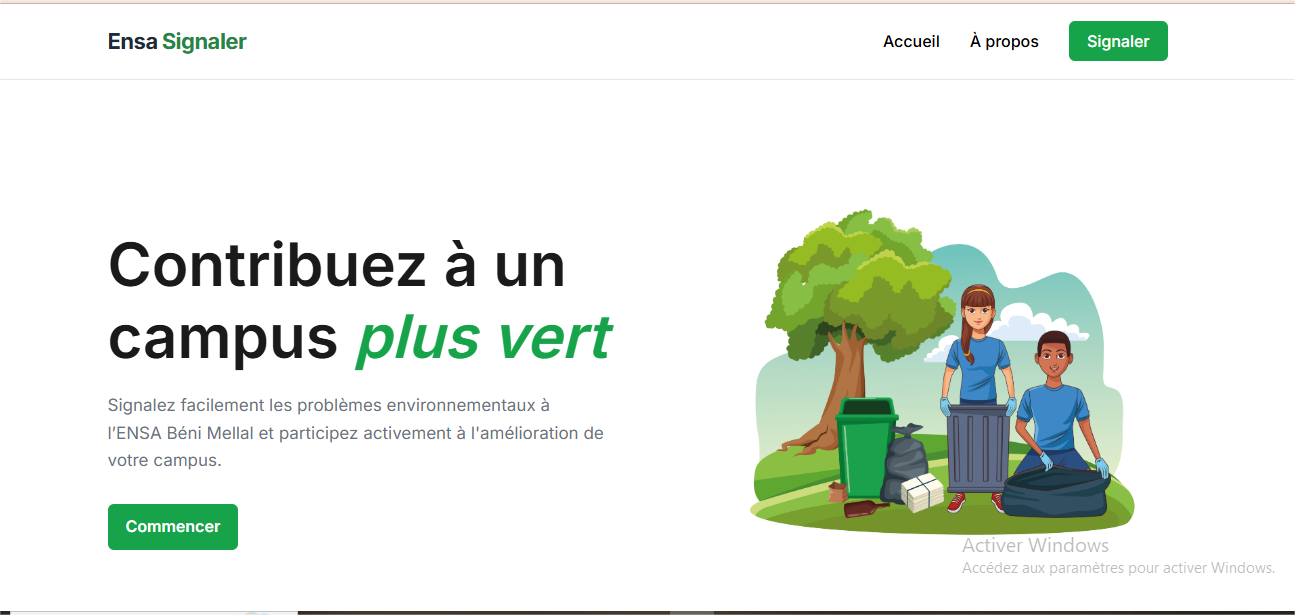
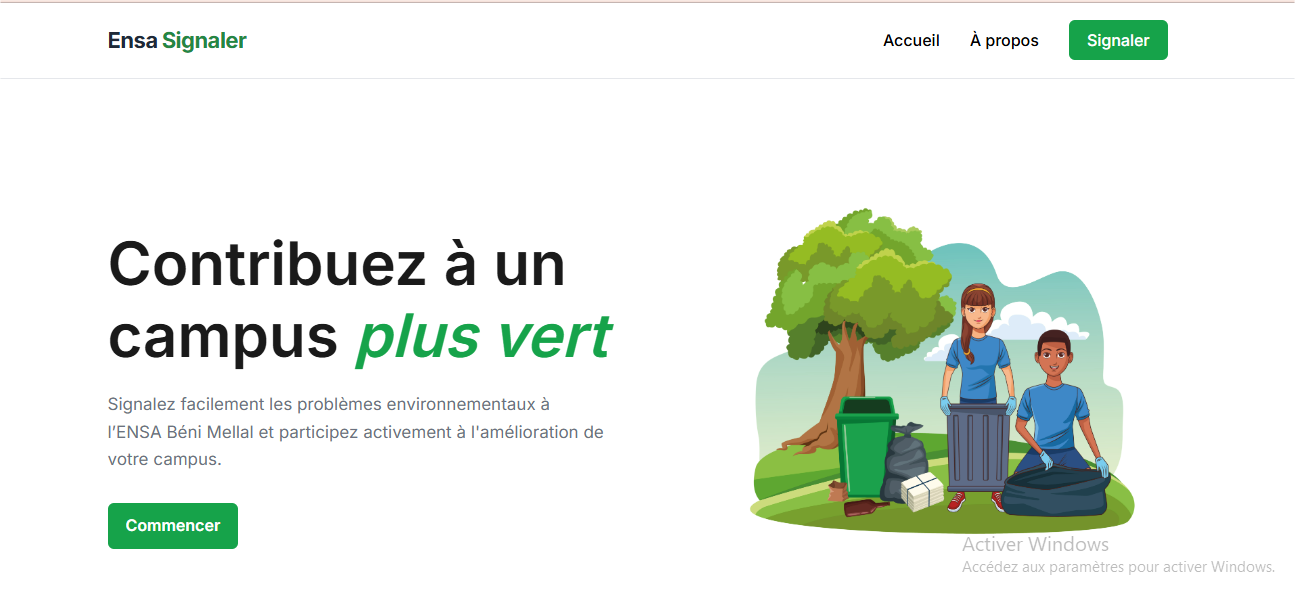
task 3 is done , filtre added

diff --git a/frontend/form.js b/frontend/form.js
@@ -9,6 +9,9 @@ class EnsaSignalerForm {
     init() {
         this.bindEvents();
         this.loadReportsDisplay();
+        this.loadReportsFromAPI();
+        this.bindFilterButtons();
+        
     }
 
     bindEvents() {
@@ -31,6 +34,8 @@ class EnsaSignalerForm {
         if (backBtn) {
             backBtn.addEventListener('click', () => this.navigateBack());
         }
+
+        
     }
 
     navigateBack() {
@@ -111,6 +116,17 @@ class EnsaSignalerForm {
         container.innerHTML = this.reports.map(report => this.createReportCard(report)).join('');
     }
 
+        loadReportsFromAPI() {
+        fetch("http://localhost:3000/signalements")
+            .then(res => res.json())
+            .then(data => {
+            console.log("DATA FROM API:", data);
+            this.reports = data;
+            this.loadReportsDisplay();
+        })
+        .catch(err => console.error(err));
+         }
+
     createReportCard(report) {
         const statusLabels = {
             pending: 'En attente',
@@ -144,8 +160,8 @@ class EnsaSignalerForm {
         return `
             <div class="report-card">
                 <div class="report-header">
-                    <span class="report-type">${typeLabels[report.type] || report.type}</span>
-                    <span class="report-status ${statusClasses[report.status]}">${statusLabels[report.status]}</span>
+                    <span class="report-type">${typeLabels[report.title] || report.title}</span>
+                    <span class="report-status ${statusClasses[report.status]}">${report.status || "nouveau"}</span>
                 </div>
                 <div class="report-location">${report.location}</div>
                 <div class="report-description">${report.description}</div>
@@ -173,9 +189,38 @@ class EnsaSignalerForm {
             notification.classList.remove('show');
         }
     }
+
+    bindFilterButtons() {
+    const buttons = document.querySelectorAll(".filter-btn");
+
+    buttons.forEach(btn => {
+        btn.addEventListener("click", () => {
+
+            // remove active
+            buttons.forEach(b => b.classList.remove("active"));
+
+            // add active
+            btn.classList.add("active");
+
+            const type = btn.dataset.type;
+
+            if (!type) {
+                this.loadReportsDisplay();
+                return;
+            }
+
+            const filtered = this.reports.filter(r => r.title === type);
+
+            const container = document.getElementById("reportsList");
+            container.innerHTML = filtered.map(r => this.createReportCard(r)).join('');
+        });
+    });
+}
+    
 }
 
 // Initialize form page
 document.addEventListener('DOMContentLoaded', () => {
     new EnsaSignalerForm();
 });
+

diff --git a/frontend/form.css b/frontend/form.css
@@ -562,3 +562,32 @@ body {
         font-size: 0.85rem;
     }
 }
+
+/*filter styles*/
+.filter-container{
+    display:flex;
+    gap:10px;
+    flex-wrap:wrap;
+    margin-bottom:20px;
+}
+
+.filter-btn{
+    padding:8px 14px;
+    border-radius:20px;
+    border:1px solid #e5e7eb;
+    background:white;
+    cursor:pointer;
+    font-size:14px;
+    transition:all 0.2s ease;
+}
+
+.filter-btn:hover{
+    background:#f0fdf4;
+    border-color:#22c55e;
+}
+
+.filter-btn.active{
+    background:#22c55e;
+    color:white;
+    border-color:#22c55e;
+}

diff --git a/frontend/form.html b/frontend/form.html
@@ -80,6 +80,33 @@
 
             <div class="status-section">
                 <h3>Vos signalements</h3>
+                <div class="filter-container">
+
+    <button class="filter-btn active" data-type="">
+        Tous
+    </button>
+
+    <button class="filter-btn" data-type="déchets">
+        Déchets
+    </button>
+
+    <button class="filter-btn" data-type="eau">
+        Eau
+    </button>
+
+    <button class="filter-btn" data-type="air">
+        Air
+    </button>
+
+    <button class="filter-btn" data-type="bruit">
+        Bruit
+    </button>
+
+    <button class="filter-btn" data-type="végétation">
+        Végétation
+    </button>
+
+</div>
                 <div id="reportsList" class="reports-list">
                     <!-- Les signalements seront affichés ici -->
                 </div>